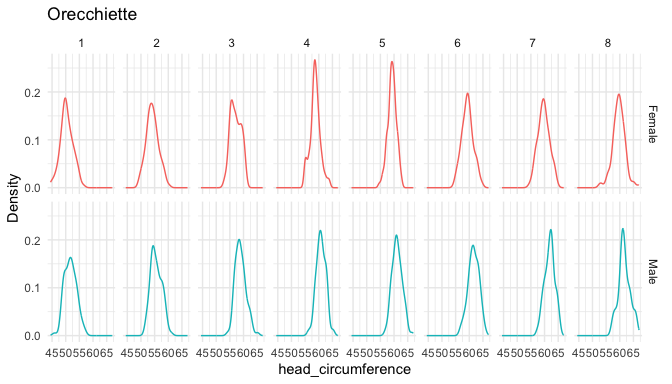
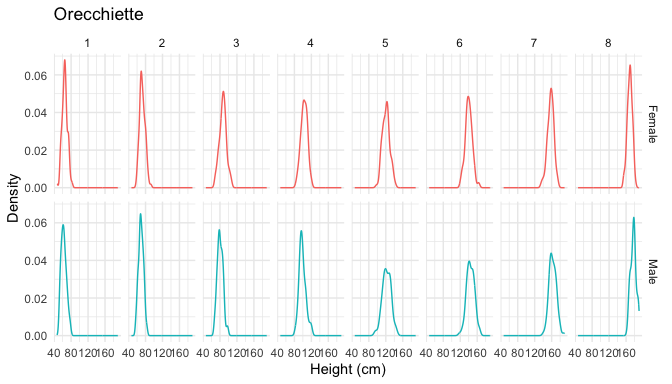
update readme

diff --git a/README.md b/README.md
@@ -12,6 +12,13 @@
 A delicious toy wrapper around `ggplot2` for visualizing longitudinal
 datasets.
 
+### TODO:
+
+- [ ] Add mezzirigatoni tagliatelle and lasagna plots (need to be
+  translated from python)
+- [ ] Add color palettes (sugo, pesto, blue cheese) and prettify theme
+- [ ] Simulated dataset rebrand (longitudinal diet scores)
+
 ## Installation
 
 You can install the development version of `pastaDaGg` from
@@ -36,7 +43,7 @@ spaghetti(anthropometry, id = "id",
   y_lab = "Head circumference (cm)",
   x_lab = "Age (years)", # x is "age" by default
   color_by = "sex", 
-  split_by = "nationality")
+  split_by = "nationality", size = 0.5)
 ```
 
 <img src="man/figures/README-spaghetti-1.png" width="100%" />
@@ -52,8 +59,9 @@ rigatoni(anthropometry, x = 'nationality', y = 'bmi', split_by='sex')
 ### Orecchiette
 
 ``` r
-orecchiette(anthropometry, x='head_circumference', 
-            color_by = 'sex', split_by = 'sex~timepoint')
+orecchiette(anthropometry, x='height',
+            color_by = 'sex', split_by = 'sex~timepoint', 
+            x_lab = "Height (cm)")
 ```
 
 <img src="man/figures/README-orecchiette-1.png" width="100%" />
